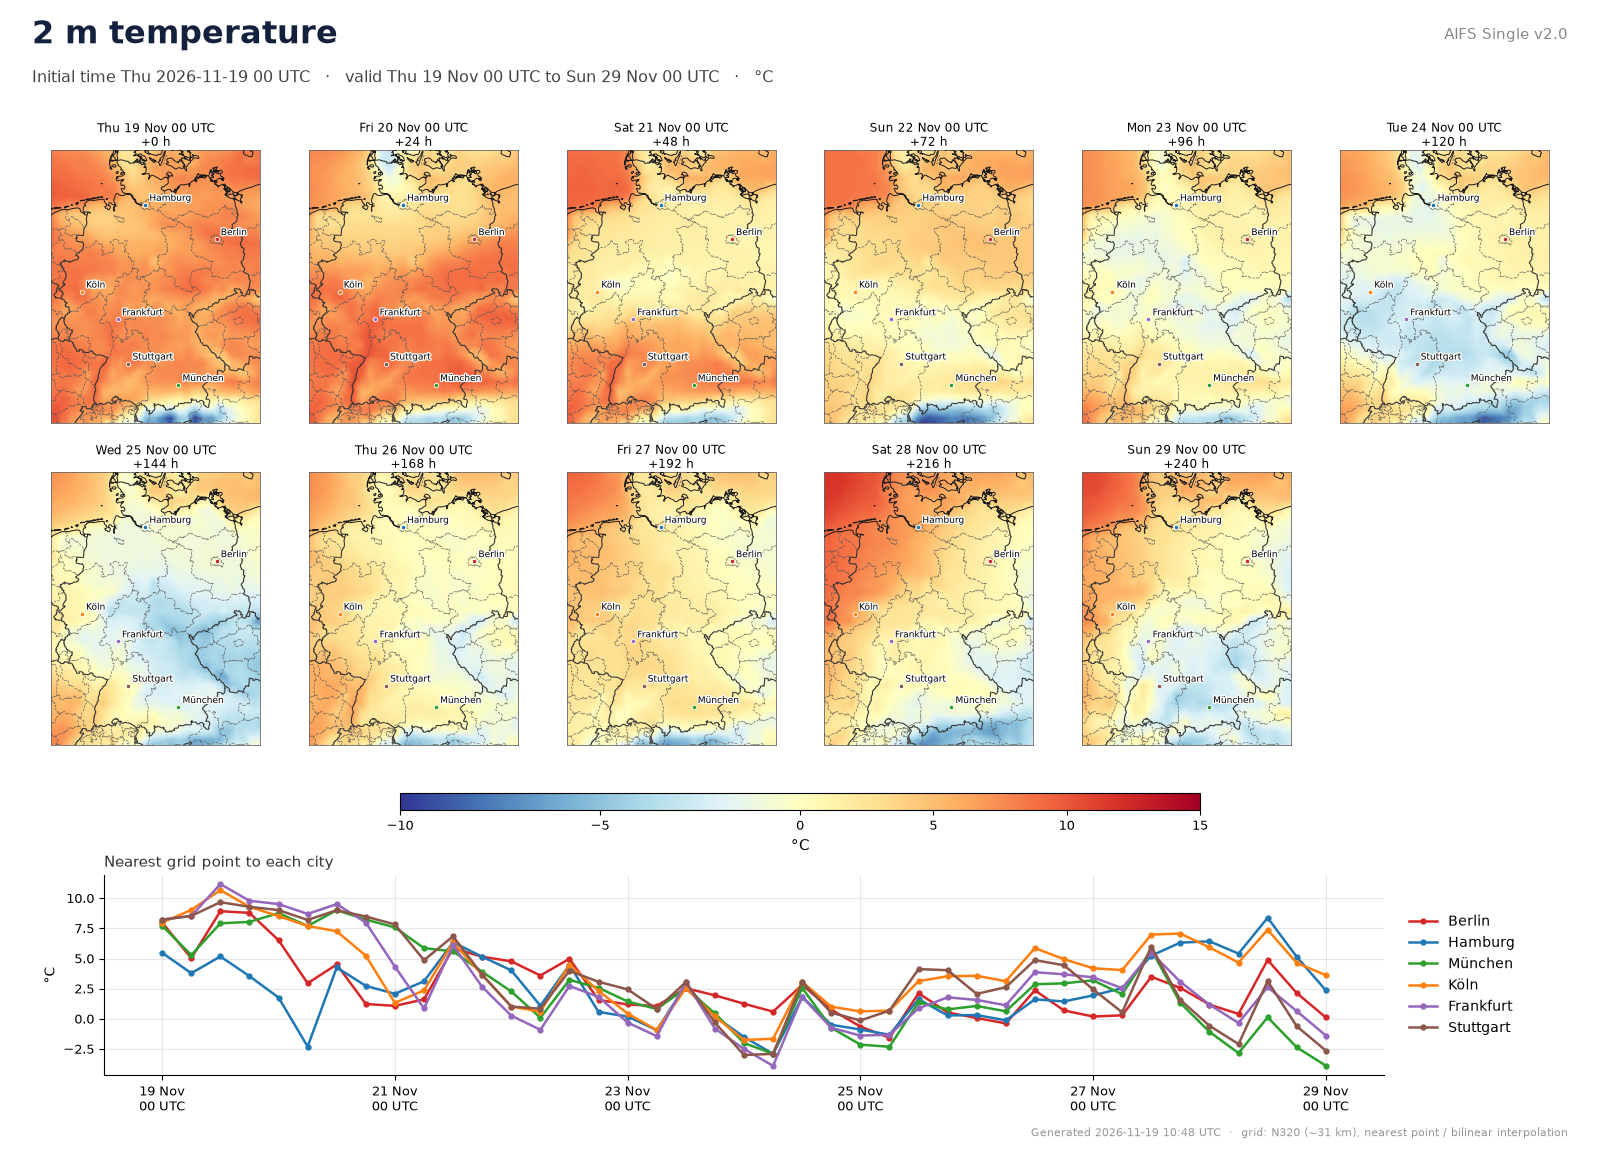
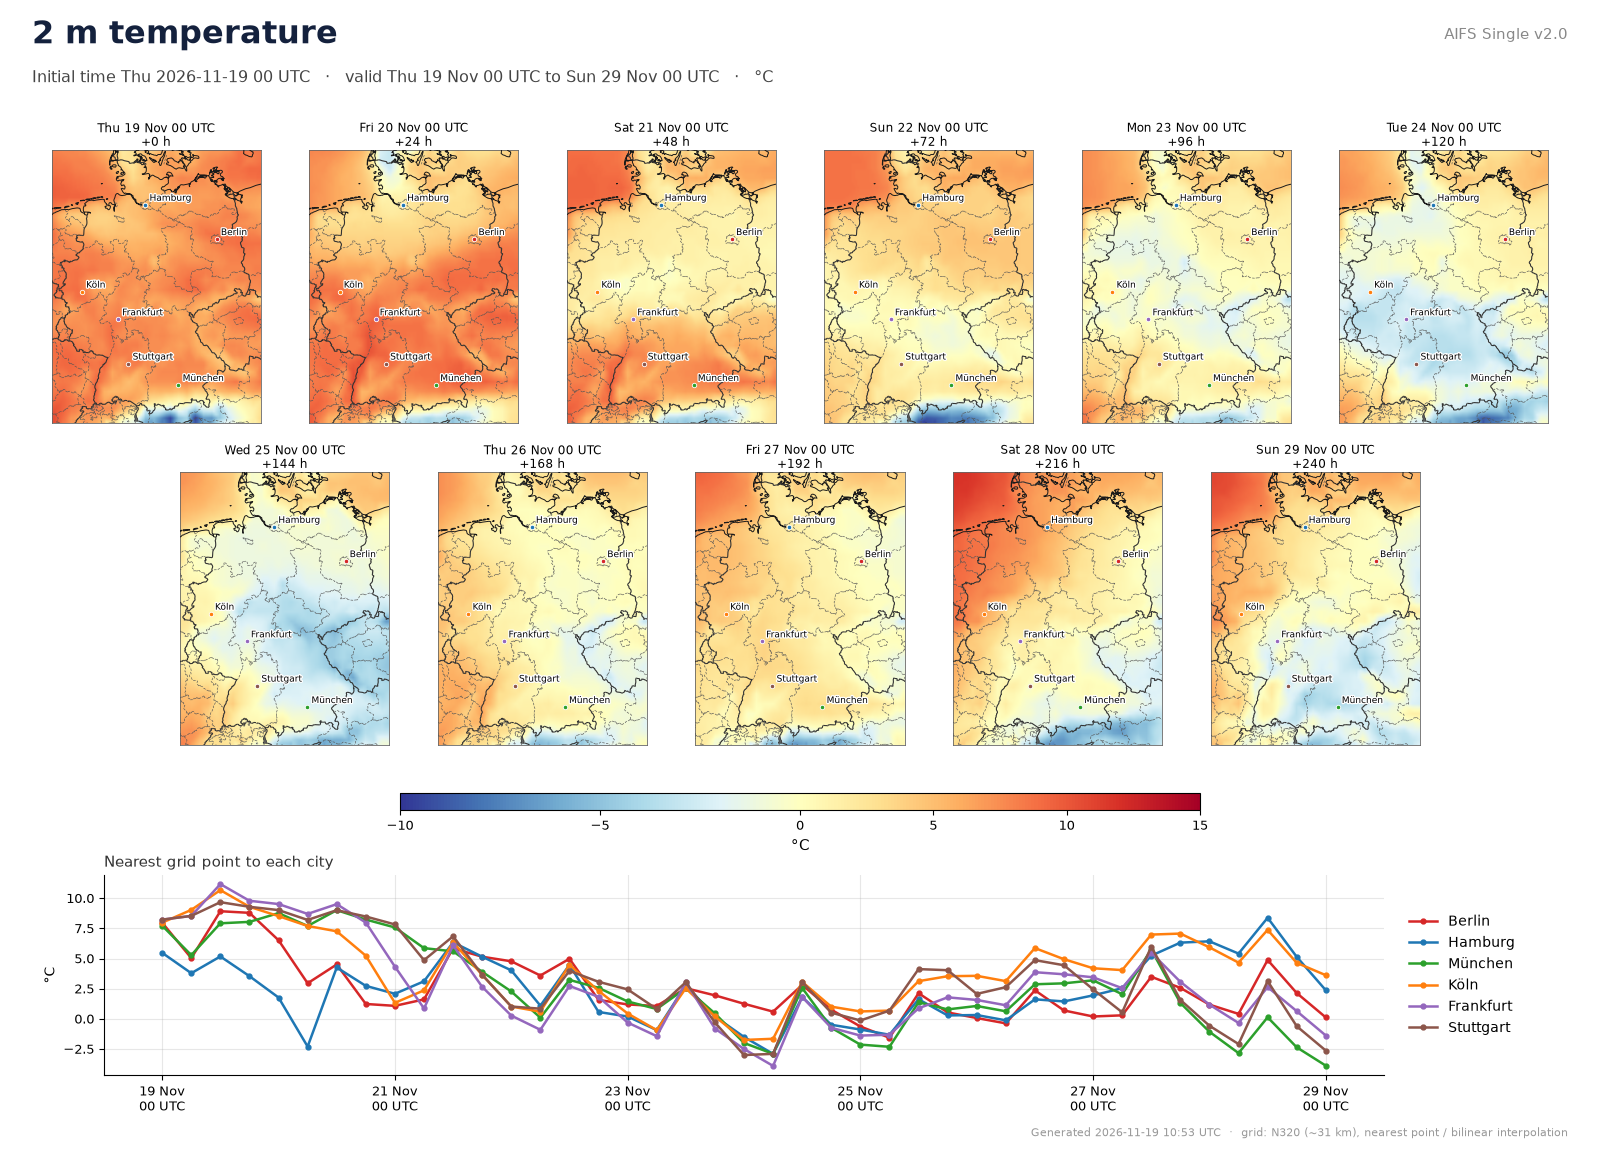
Centre the short last row of map frames on weather cards
Ten-day cards have 11 evenly spaced frames, which left an empty slot at
the end of the second row. Each map now spans two half-columns so a
shorter last row is centred. Refresh the README 2 m temperature example.

Changed region(s): [[0.0312, 0.3652, 0.9062, 0.6696], [0.9375, 0.1826, 0.9688, 0.213], [0.875, 0.1217, 0.9062, 0.1522]]

diff --git a/pipeline/predict_now.py b/pipeline/predict_now.py
@@ -622,12 +622,19 @@ def _render_card(key, variant):
     left = (1 - mw) / 2
     top = 1 - (title_h + 0.5) / FH
     bottom = top - maps_h / FH
-    gs = fig.add_gridspec(rows, ncols if not constant else 1, left=left, right=left + mw, top=top, bottom=bottom,
-                          wspace=0.04, hspace=0.18)
+    # each map spans two half-columns so a short last row can be centred
+    gs = fig.add_gridspec(rows, 2 * ncols if not constant else 1, left=left, right=left + mw, top=top,
+                          bottom=bottom, wspace=0.08, hspace=0.18)
+    last_row_off = ncols * rows - n  # half-columns to shift the last row by
     quiv = entry.get("uv")
     im = None
     for j in range(n):
-        ax = fig.add_subplot(gs[j // ncols, j % ncols])
+        r, c0 = divmod(j, ncols)
+        if constant:
+            ax = fig.add_subplot(gs[0, 0])
+        else:
+            c0 = 2 * c0 + (last_row_off if r == rows - 1 else 0)
+            ax = fig.add_subplot(gs[r, c0:c0 + 2])
         g = frames[j]
         gm = np.ma.masked_invalid(g)
         if spec["style"] == "precip":
